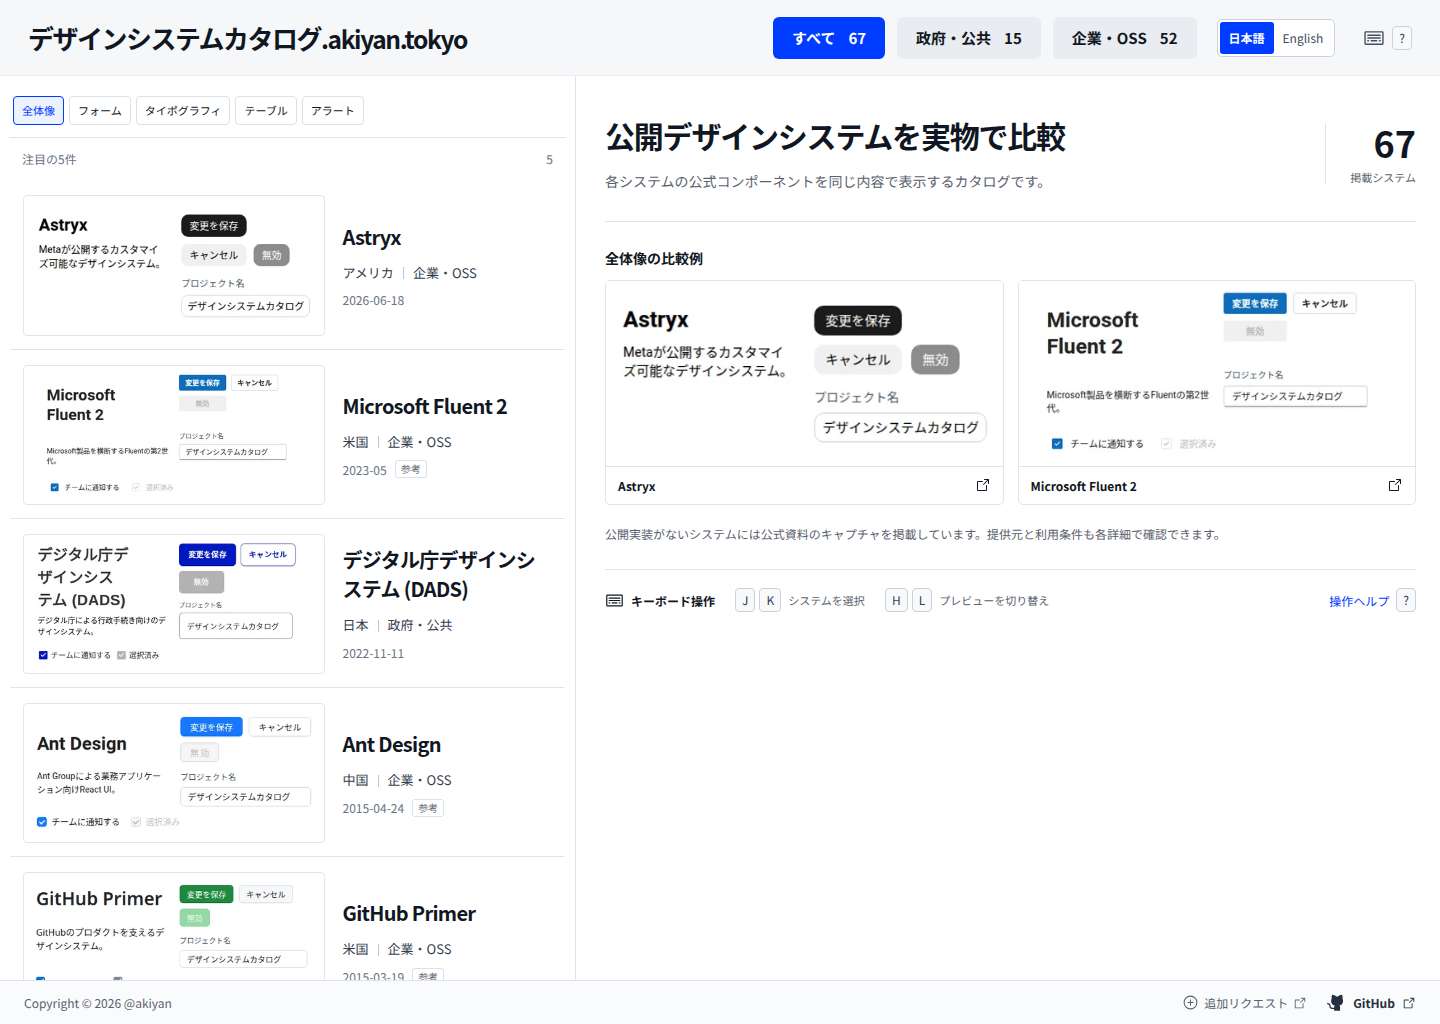
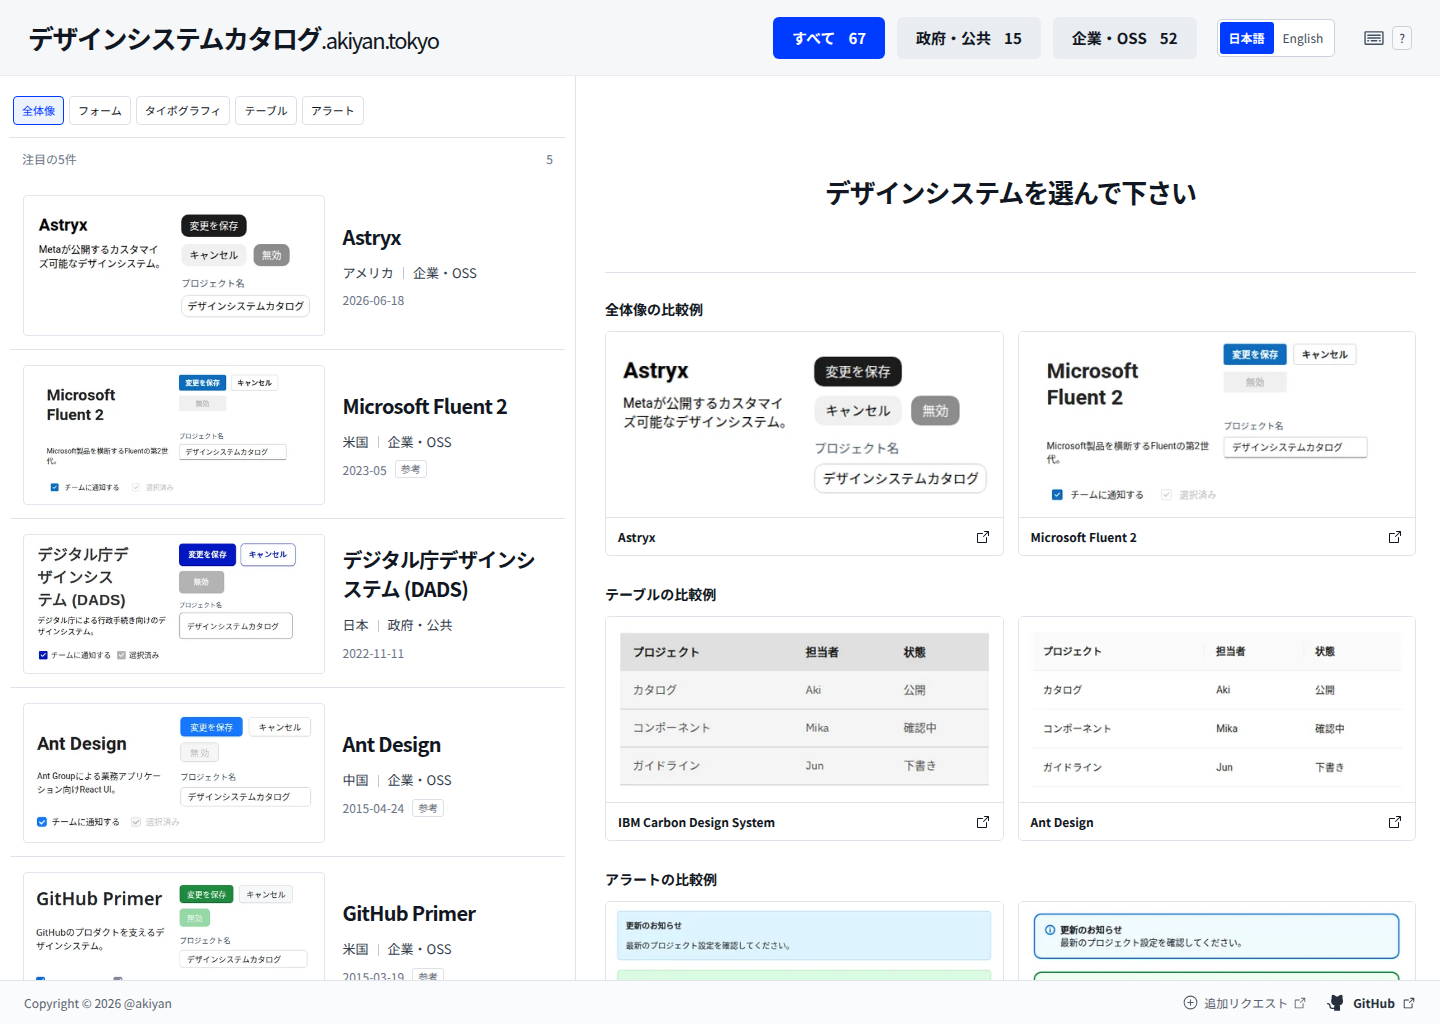
Add table and alert comparison examples to the unselected home

diff --git a/src/CatalogIntroduction.jsx b/src/CatalogIntroduction.jsx
@@ -1,14 +1,20 @@
 import {ArrowSquareOut,Keyboard} from '@phosphor-icons/react';
 import {systemName,systemPath} from './catalog';
 const copy={
- ja:{heading:'公開デザインシステムを実物で比較',intro:'各システムの公式コンポーネントを同じ内容で表示するカタログです。',systems:'掲載システム',examples:'全体像の比較例',sources:'公開実装がないシステムには公式資料のキャプチャを掲載しています。提供元と利用条件も各詳細で確認できます。',keyboard:'キーボード操作',select:'システムを選択',preview:'プレビューを切り替え',help:'操作ヘルプ'},
- en:{heading:'Compare real design systems',intro:'Official components rendered with the same sample content.',systems:'Catalog systems',examples:'Overview comparison',sources:'Systems without a public implementation show reference captures. Provider information and usage terms are available in each detail view.',keyboard:'Keyboard navigation',select:'Select a system',preview:'Switch preview',help:'Shortcut help'}
+ ja:{heading:'デザインシステムを選んで下さい',examples:{overview:'全体像の比較例',table:'テーブルの比較例',alerts:'アラートの比較例'},sources:'公開実装がないシステムには公式資料のキャプチャを掲載しています。提供元と利用条件も各詳細で確認できます。',keyboard:'キーボード操作',select:'システムを選択',preview:'プレビューを切り替え',help:'操作ヘルプ'},
+ en:{heading:'Please select a design system',examples:{overview:'Overview comparison',table:'Table comparison',alerts:'Alert comparison'},sources:'Systems without a public implementation show reference captures. Provider information and usage terms are available in each detail view.',keyboard:'Keyboard navigation',select:'Select a system',preview:'Switch preview',help:'Shortcut help'}
 };
 export default function CatalogIntroduction({systems,language,ready,onSelect,onHelp}){
- const t=copy[language];const examples=systems.filter(s=>s.specimen.status==='ready').slice(0,2);
+ const t=copy[language];const used=new Set();
+ const groups=[['overview',['astryx','fluent']],['table',['carbon','ant']],['alerts',['primer','cloudscape']]].map(([view,preferred])=>{
+  const available=systems.filter(s=>s.specimen.status==='ready'&&s.specimen.views.includes(view));
+  const ordered=[...preferred.map(id=>available.find(s=>s.id===id)).filter(Boolean),...available];
+  const examples=[];for(const system of ordered){if(used.has(system.id))continue;examples.push(system);used.add(system.id);if(examples.length===2)break;}
+  return {view,examples};
+ });
  return <div className="catalog-introduction">
-  <div className="welcome-header"><div className="welcome-copy"><h1>{t.heading}</h1><p className="welcome-intro">{t.intro}</p></div><dl className="welcome-stats"><div><dt>{t.systems}</dt><dd>{systems.length}</dd></div></dl></div>
-  <section><h2>{t.examples}</h2><div className="welcome-examples">{examples.map(s=><a key={s.id} href={systemPath(s)} onClick={event=>{if(!ready||event.metaKey||event.ctrlKey||event.shiftKey||event.altKey||event.button!==0)return;event.preventDefault();onSelect(s)}}><img src={`/specimens/list-thumbnails/${s.id}-overview.webp`} alt={systemName(s,language)} width="480" height="224"/><span>{systemName(s,language)}<ArrowSquareOut size={16}/></span></a>)}</div></section>
+  <div className="welcome-header"><h1>{t.heading}</h1></div>
+  {groups.filter(group=>group.examples.length).map(({view,examples})=><section className="welcome-comparison" key={view} data-view={view}><h2>{t.examples[view]}</h2><div className="welcome-examples">{examples.map(s=><a key={s.id} href={systemPath(s)} onClick={event=>{if(!ready||event.metaKey||event.ctrlKey||event.shiftKey||event.altKey||event.button!==0)return;event.preventDefault();onSelect(s,{viewKey:view})}}><img src={`/specimens/list-thumbnails/${s.id}-${view}.webp`} alt={systemName(s,language)} width="480" height="224"/><span>{systemName(s,language)}<ArrowSquareOut size={16}/></span></a>)}</div></section>)}
   <p className="welcome-sources">{t.sources}</p>
   <section className="welcome-keyboard"><h2><Keyboard size={19}/>{t.keyboard}</h2><dl><div><dt><kbd>J</kbd><kbd>K</kbd></dt><dd>{t.select}</dd></div><div><dt><kbd>H</kbd><kbd>L</kbd></dt><dd>{t.preview}</dd></div></dl><button type="button" disabled={!ready} onClick={onHelp}>{t.help}<kbd>?</kbd></button></section>
  </div>;

diff --git a/src/styles.css b/src/styles.css
@@ -96,7 +96,7 @@ a.system-row{cursor:pointer}
 
 .site-domain{font-size:calc(1em - 3pt);font-weight:400}
 .mobile-site-title{display:none}.site-title{font-size:clamp(18px,1.8vw,26px)}
- .catalog-introduction{max-width:920px;padding:14px 4px 24px}.welcome-header{display:grid;grid-template-columns:minmax(0,1fr) auto;gap:28px;align-items:center;margin-bottom:26px;padding-bottom:26px;border-bottom:1px solid var(--line)}.catalog-introduction h1{font-size:clamp(24px,2.1vw,30px);line-height:1.5;letter-spacing:-.04em;margin:0 0 10px;text-wrap:balance}.welcome-intro{font-size:14px;line-height:1.9;color:var(--muted);margin:0}.welcome-stats{margin:0;padding-left:24px;border-left:1px solid var(--line)}.welcome-stats>div{display:flex;flex-direction:column-reverse;align-items:flex-end;gap:7px}.welcome-stats dt{font-size:11px;color:var(--muted);white-space:nowrap}.welcome-stats dd{font-size:36px;line-height:1.1;font-weight:700;font-variant-numeric:tabular-nums;margin:0}.catalog-introduction h2{font-size:14px;margin:0 0 12px}.welcome-examples{display:grid;grid-template-columns:repeat(2,minmax(0,1fr));gap:14px}.welcome-examples a{border:1px solid var(--line);border-radius:5px;overflow:hidden}.welcome-examples a:hover{border-color:var(--blue)}.welcome-examples img{width:100%;aspect-ratio:480/224;object-fit:contain;background:#fff}.welcome-examples a>span{display:flex;align-items:center;justify-content:space-between;padding:10px 12px;border-top:1px solid var(--line);font-size:12px;font-weight:600}.welcome-sources{font-size:12px;line-height:1.9;color:var(--muted);margin:18px 0 24px}.welcome-keyboard{display:flex;align-items:center;flex-wrap:wrap;gap:12px 20px;border-top:1px solid var(--line);padding-top:18px}.welcome-keyboard h2{display:flex;align-items:center;gap:7px;margin:0;font-size:12px}.welcome-keyboard dl{display:flex;flex-wrap:wrap;gap:12px 20px;margin:0}.welcome-keyboard dl>div{display:flex;align-items:center;gap:7px}.welcome-keyboard dt{display:flex;gap:4px}.welcome-keyboard dd{font-size:11px;color:var(--muted);margin:0}.welcome-keyboard>button{display:flex;align-items:center;gap:7px;color:var(--blue);padding:0;font-size:12px;margin-left:auto}
+ .catalog-introduction{max-width:920px;padding:14px 4px 24px}.welcome-header{display:grid;place-items:center;min-height:160px;margin-bottom:26px;border-bottom:1px solid var(--line)}.catalog-introduction h1{font-size:clamp(22px,1.8vw,26px);font-weight:600;line-height:1.5;letter-spacing:-.04em;margin:0;text-align:center;text-wrap:balance}.welcome-comparison+.welcome-comparison{margin-top:28px}.catalog-introduction h2{font-size:14px;margin:0 0 12px}.welcome-examples{display:grid;grid-template-columns:repeat(2,minmax(0,1fr));gap:14px}.welcome-examples a{border:1px solid var(--line);border-radius:5px;overflow:hidden}.welcome-examples a:hover{border-color:var(--blue)}.welcome-examples img{width:100%;aspect-ratio:480/224;object-fit:contain;background:#fff}.welcome-examples a>span{display:flex;align-items:center;justify-content:space-between;padding:10px 12px;border-top:1px solid var(--line);font-size:12px;font-weight:600}.welcome-sources{font-size:12px;line-height:1.9;color:var(--muted);margin:18px 0 24px}.welcome-keyboard{display:flex;align-items:center;flex-wrap:wrap;gap:12px 20px;border-top:1px solid var(--line);padding-top:18px}.welcome-keyboard h2{display:flex;align-items:center;gap:7px;margin:0;font-size:12px}.welcome-keyboard dl{display:flex;flex-wrap:wrap;gap:12px 20px;margin:0}.welcome-keyboard dl>div{display:flex;align-items:center;gap:7px}.welcome-keyboard dt{display:flex;gap:4px}.welcome-keyboard dd{font-size:11px;color:var(--muted);margin:0}.welcome-keyboard>button{display:flex;align-items:center;gap:7px;color:var(--blue);padding:0;font-size:12px;margin-left:auto}
 @media(max-width:700px){.desktop-site-title{display:none}.mobile-site-title{display:inline}.site-title{font-size:19px}}
 
 .system-kind{display:inline-block;margin-top:6px;font-size:10px;color:#59616d;border:1px solid var(--line);border-radius:3px;padding:2px 5px}.unstyled-note{margin:0 0 12px;padding:10px 12px;background:#f6f7f9;border:1px solid var(--line);border-radius:4px}

diff --git a/src/App.jsx b/src/App.jsx
@@ -129,13 +129,14 @@ export function App({ githubUrl = 'https://github.com/akiyan/design-system-catal
     } catch { /* Language switching also works without persistent storage. */ }
   }
 
-  function selectSystem(system, { showDetail = true, focus = false, resetView = false } = {}) {
+  function selectSystem(system, { showDetail = true, focus = false, resetView = false, viewKey } = {}) {
     if (isMobile && showDetail) {
       if (!mobilePreview) listScrollTop.current = workspace.current?.scrollTop || 0;
       requestAnimationFrame(() => workspace.current?.scrollTo({ top: 0, behavior: 'instant' }));
     }
-    const key=comparisonView;
+    const key=viewKey||comparisonView;
     if(resetView)setComparisonView('overview');
+    else if(viewKey)setComparisonView(viewKey);
     setSelectedId(system.id);
     setViewIndex(resetView ? 0 : Math.max(0,system.views.findIndex(view=>view.key===key)));
     setMobilePreview(showDetail);
@@ -335,7 +336,7 @@ export function App({ githubUrl = 'https://github.com/akiyan/design-system-catal
         <div className="release-info"><span>{t.released}</span><time dateTime={selected.published.date}>{selected.published.date}</time>{selected.published.estimated && <span className="date-reference">{t.reference}</span>}</div>
         <details className="release-details" open={!isMobile}><summary>{t.releaseNote}</summary><p>{selected.published.note[language]}</p><a href={selected.published.sourceUrl} target="_blank" rel="noopener noreferrer">{t.dateSource}<ArrowSquareOut size={14} /></a></details>
         <details className="license-details" open={!isMobile}><summary>{t.conditions}</summary><p>{t.license}: {language === 'en' ? selected.licenseEn : selected.license}</p><p>{selected.specimen.status==='ready'?t.imageNote:t.captureNote}</p><a href={selected.specimen.sourceUrl} target="_blank" rel="noopener noreferrer">{selected.specimen.status==='ready'?t.imageSource:t.captureSource}<ArrowSquareOut size={14} /></a>{selected.repository && <a className="source-repository" href={selected.repository} target="_blank" rel="noopener noreferrer"><GithubLogo size={14} />{t.code}</a>}</details>
-        </>:<CatalogIntroduction systems={systems} language={language} ready={ready} onSelect={selectSystem} onHelp={()=>setHelpOpen(true)}/>}
+        </>:<CatalogIntroduction systems={filtered} language={language} ready={ready} onSelect={selectSystem} onHelp={()=>setHelpOpen(true)}/>}
       </section>
     </main>
     <footer className="site-footer"><span>Copyright © 2026 <a href="https://github.com/akiyan" target="_blank" rel="noopener noreferrer">@akiyan</a></span><nav className="footer-links" aria-label={t.footerLinks}><a className="addition-request" href="https://github.com/akiyan/design-system-catalog/issues/new?template=add-design-system.yml" target="_blank" rel="noopener noreferrer"><PlusCircle size={17}/>{t.requestAddition}<ArrowSquareOut size={14}/></a><a className="github-link" href={githubUrl} target="_blank" rel="noopener noreferrer"><GithubLogo size={19} weight="fill" aria-hidden="true" />GitHub<ArrowSquareOut size={14} aria-hidden="true" /></a></nav></footer>

diff --git a/docs/design-qa.md b/docs/design-qa.md
@@ -138,3 +138,9 @@ Deployed source 2caefd0 to https://15e30acf.design-system-catalog-925.pages.dev.
 The desktop .akiyan.tokyo suffix is now 3pt smaller than the site name with font-weight 400. Japanese and English computed-style checks confirm a 4px (3pt) difference and normal weight; the header screenshot was reviewed. Document titles remain unchanged.
 
 Static pnpm build passed. Deployed source 0623d82 to https://41d042d3.design-system-catalog-925.pages.dev and confirmed the 3pt size difference plus font-weight 400 in both languages on the custom production domain.
+
+## Category comparison examples on the unselected home — 2026-11-10
+
+Replaced the introductory headline, description and system count with the requested Japanese selection prompt and its English equivalent in a 160px-high area. The comparison section now includes distinct system pairs: Astryx/Fluent overview, Carbon/Ant Design tables and Primer/Cloudscape alerts. All six images use existing captures of genuine locally rendered components. Example selection opens the matching specimen category and updates the list comparison category. Active government/company filters constrain eligible examples. Retained the 3pt smaller domain suffix with normal font weight.
+
+Reviewed desktop, 900px English and scrolled alert captures against the previous layout. Static pnpm build passed. All 141 browser checks passed in 13.5 seconds, including a new behavior check for matching-category example navigation and government-filter eligibility.

diff --git a/AGENTS.md b/AGENTS.md
@@ -106,5 +106,5 @@ Build app UI in `src/`. Keep `.openai/hosting.json`, `worker/index.js`, `scripts
 
 - Display the desktop header suffix `.akiyan.tokyo` three typographic points smaller than the main site name with normal (400) weight in both languages. Keep the full document title unchanged.
 - Omit instructions that are already apparent from the layout. Do not show introductory choose/switch/visit steps or tell visitors to select an item from the visible list.
-- On the home introduction show only the catalog system count. Omit implementation and category counts.
-- The simplified home introduction places its sole system count beside the heading, followed by genuine comparison examples. Keep keyboard hints compact below the examples; avoid a separate full-width statistics band.
+- Do not show counts in the home introduction.
+- The home introduction starts with 「デザインシステムを選んで下さい」 (English equivalent) in a spacious prompt area. Remove the prior heading, descriptive sentence and system count. Show genuine overview, table and alert comparison pairs using different systems across groups. Clicking an example opens its matching specimen category. Respect the active catalog filter. Keep keyboard hints compact below the examples.
